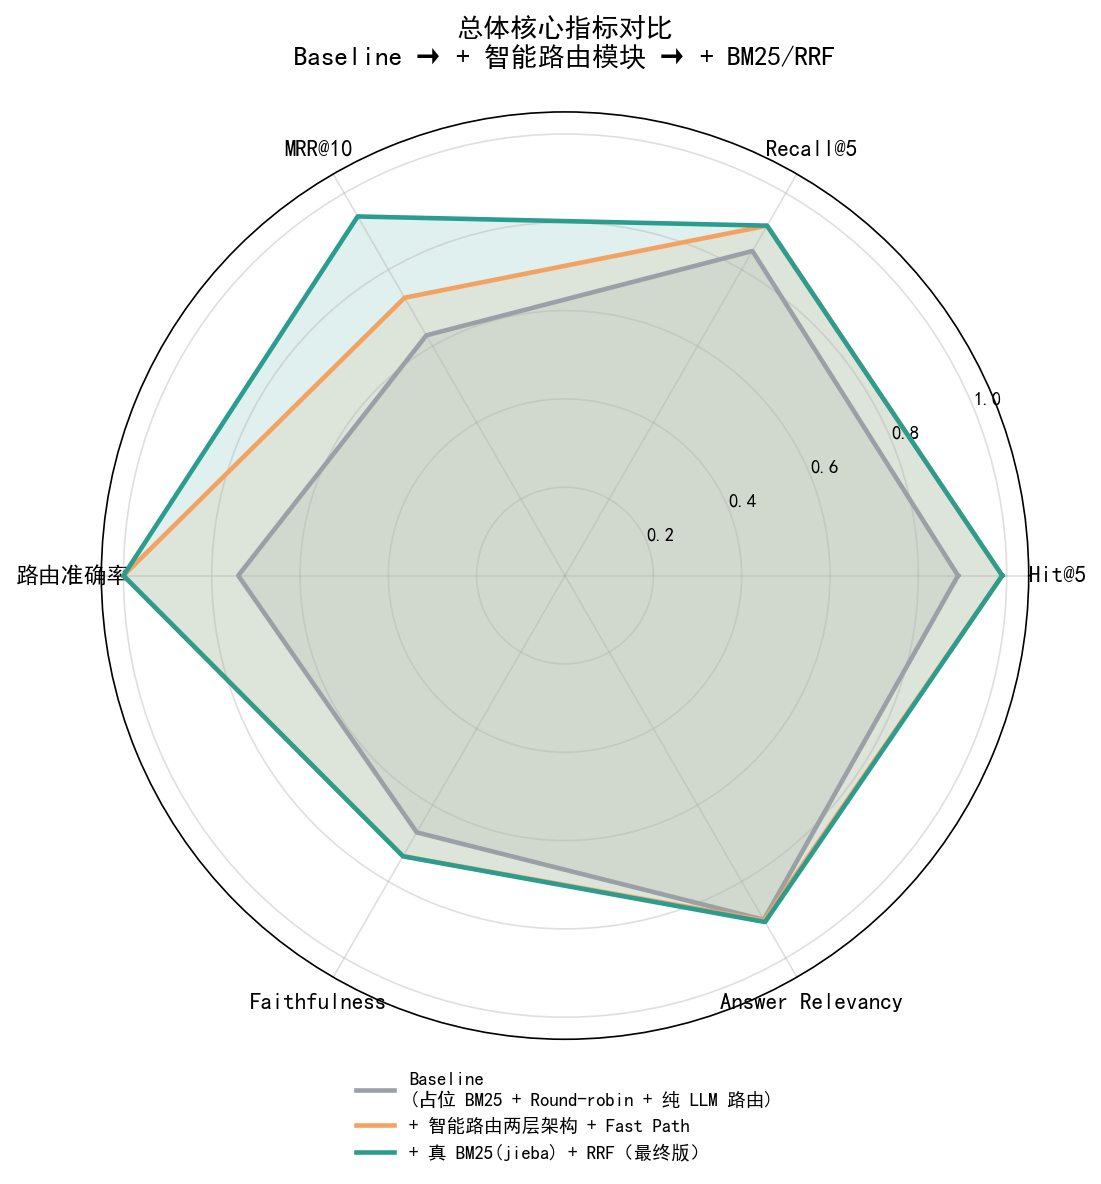
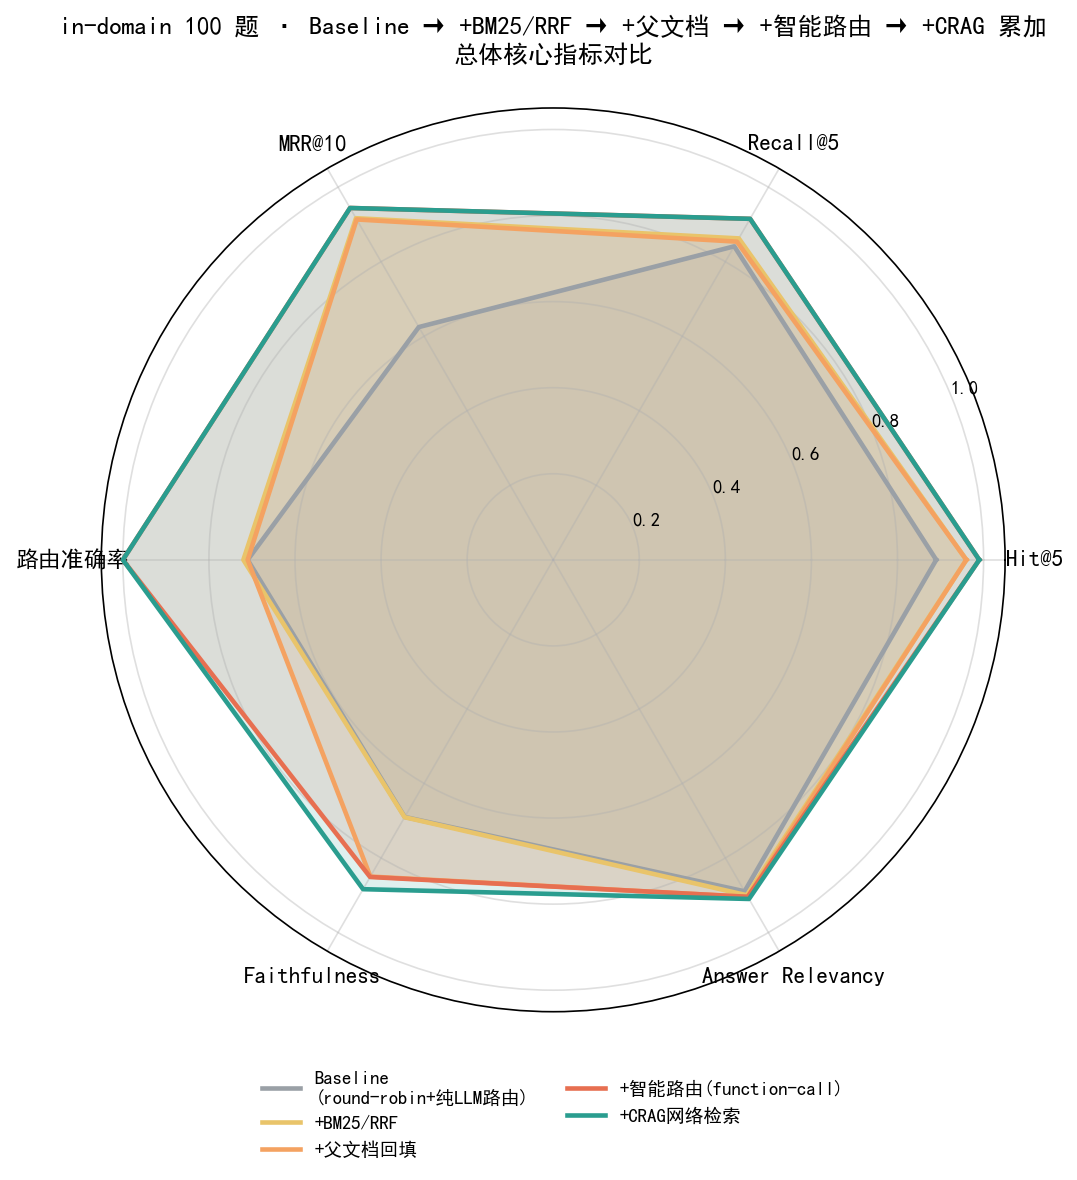
feat(viz): 评测可视化重写为 5 版主链 + 路由专项 + CRAG/OOD 共 4 图

diff --git a/eval/plot_comparison.py b/eval/plot_comparison.py
@@ -1,11 +1,12 @@
 """
-三版评测结果对比可视化
-读取 eval_output/{baseline_v2,route_v2,retrieval_v1}_summary.json，
-画三张 PNG 到 docs/figures/，README 引用：
+5 版评测结果对比可视化
+读取 eval_output/final_*_summary.json 以及 eval_output/ood_correctness.json，
+生成 4 张 PNG 到 docs/figures/：
 
-  01_overall_radar.png            — 总体雷达图（6 核心指标）
-  02_mrr_by_question_type.png     — 按问题类型 MRR@10 柱状图
-  03_latency.png                  — 端到端延迟 P50/P95 对比
+  01_overall_radar.png        — 主链雷达（in-domain 100 题，6 核心指标，5 版）
+  02_latency.png              — 主链延迟 P50/P95（5 版）
+  03_routing_ablation.png     — 路由专项（准确率 + P50 延迟，3 版对比）
+  04_crag_ood.png             — CRAG OOD 价值（LLM 判分正确性，5 版）
 
 用法（从项目根目录）：
     python -m eval.plot_comparison
@@ -28,42 +29,50 @@ EVAL_DIR = ROOT / "eval_output"
 FIG_DIR = ROOT / "docs" / "figures"
 FIG_DIR.mkdir(parents=True, exist_ok=True)
 
-# 三个版本（按时间顺序），颜色：灰 → 橙 → 绿（从浅到深暗示进阶）
+# 5 版主链（按进阶顺序，颜色由浅灰→深绿）
 VERSIONS = [
-    ("baseline_v2",   "Baseline\n(占位 BM25 + Round-robin + 纯 LLM 路由)", "#9aa0a6"),
-    ("route_v2",      "+ 智能路由两层架构 + Fast Path",                  "#f4a261"),
-    ("retrieval_v2",  "+ 真 BM25(jieba) + RRF（最终版）",                 "#2a9d8f"),
+    ("final_baseline",  "Baseline\n(round-robin+纯LLM路由)", "#9aa0a6"),
+    ("final_retrieval", "+BM25/RRF",                          "#e9c46a"),
+    ("final_parentdoc", "+父文档回填",                        "#f4a261"),
+    ("final_route",     "+智能路由(function-call)",           "#e76f51"),
+    ("final_crag",      "+CRAG网络检索",                      "#2a9d8f"),
 ]
 
-# 7 类问题，前 5 类走 hybrid_traditional（D4 影响范围），后 2 类走 graph_rag/combined
-QUESTION_TYPES = [
-    ("simple_fact",     "事实查询"),
-    ("attribute_query", "属性查询"),
-    ("step_by_step",    "步骤型"),
-    ("causal",          "因果推理"),
-    ("entity_relation", "实体关系"),
-    ("multi_hop",       "多跳查询"),
-    ("comparison",      "两菜对比"),
+# 路由专项（受控变量：固定 BM25/RRF+父文档、CRAG off，只换路由器）
+ROUTERS = [
+    ("final_parentdoc",  "纯LLM(原始)",       "#9aa0a6"),
+    ("final_route_rule", "D3规则(规则短路)",  "#f4a261"),
+    ("final_route",      "function-call",     "#2a9d8f"),
 ]
-N_HYBRID = 5  # 前 5 类
 
 
 def load_summary(run_id: str) -> dict:
     p = EVAL_DIR / f"{run_id}_summary.json"
     if not p.exists():
-        raise FileNotFoundError(f"未找到 {p}，请先跑评测：python -m eval.eval_runner --run_id {run_id}")
+        raise FileNotFoundError(
+            f"未找到 {p}，请先跑评测：python -m eval.eval_runner --run_id {run_id}"
+        )
     with open(p, encoding="utf-8") as f:
         return json.load(f)
 
 
+def load_ood_correctness() -> dict:
+    p = EVAL_DIR / "ood_correctness.json"
+    if not p.exists():
+        raise FileNotFoundError(f"未找到 {p}")
+    with open(p, encoding="utf-8") as f:
+        return json.load(f)
+
+
+# ---------- 图1：主链雷达（in-domain）----------
 def plot_radar(summaries: list[dict]) -> Path:
     metrics = [
-        ("Hit@5",            lambda s: s["aggregated"]["retrieval"]["hit@5"]),
-        ("Recall@5",         lambda s: s["aggregated"]["retrieval"]["recall@5"]),
-        ("MRR@10",           lambda s: s["aggregated"]["retrieval"]["mrr@10"]),
-        ("路由准确率",        lambda s: s["aggregated"]["routing"]["accuracy"]),
-        ("Faithfulness",     lambda s: s["aggregated"]["generation"]["faithfulness"]),
-        ("Answer Relevancy", lambda s: s["aggregated"]["generation"]["answer_relevancy"]),
+        ("Hit@5",            lambda s: s["aggregated_in_domain"]["retrieval"]["hit@5"]),
+        ("Recall@5",         lambda s: s["aggregated_in_domain"]["retrieval"]["recall@5"]),
+        ("MRR@10",           lambda s: s["aggregated_in_domain"]["retrieval"]["mrr@10"]),
+        ("路由准确率",        lambda s: s["aggregated_in_domain"]["routing"]["accuracy"]),
+        ("Faithfulness",     lambda s: s["aggregated_in_domain"]["generation"]["faithfulness"]),
+        ("Answer Relevancy", lambda s: s["aggregated_in_domain"]["generation"]["answer_relevancy"]),
     ]
     labels = [m[0] for m in metrics]
     n = len(labels)
@@ -84,12 +93,12 @@ def plot_radar(summaries: list[dict]) -> Path:
     ax.set_yticklabels(["0.2", "0.4", "0.6", "0.8", "1.0"], fontsize=9)
     ax.grid(True, alpha=0.4)
     ax.set_title(
-        "总体核心指标对比\nBaseline → + 智能路由模块 → + BM25/RRF",
-        fontsize=13, pad=22
+        "in-domain 100 题 · Baseline → +BM25/RRF → +父文档 → +智能路由 → +CRAG 累加\n总体核心指标对比",
+        fontsize=12, pad=22
     )
     ax.legend(
-        loc="lower center", bbox_to_anchor=(0.5, -0.15),
-        fontsize=9, ncol=1, frameon=False
+        loc="lower center", bbox_to_anchor=(0.5, -0.18),
+        fontsize=9, ncol=2, frameon=False
     )
     plt.tight_layout()
     out = FIG_DIR / "01_overall_radar.png"
@@ -98,99 +107,194 @@ def plot_radar(summaries: list[dict]) -> Path:
     return out
 
 
-def plot_mrr_by_type(summaries: list[dict]) -> Path:
-    types = [t[0] for t in QUESTION_TYPES]
-    type_labels = [t[1] for t in QUESTION_TYPES]
-    n_types = len(types)
-    width = 0.26
-    x = np.arange(n_types)
-
-    fig, ax = plt.subplots(figsize=(13.5, 6.5))
-    for i, (s, (_, vlabel, color)) in enumerate(zip(summaries, VERSIONS)):
-        values = [s["by_question_type"][t]["mrr@10"] for t in types]
-        offset = (i - 1) * width  # 居中分布
-        bars = ax.bar(x + offset, values, width, label=vlabel, color=color, edgecolor="white", linewidth=0.6)
-        for bar, v in zip(bars, values):
-            ax.text(
-                bar.get_x() + bar.get_width() / 2, bar.get_height() + 0.012,
-                f"{v:.2f}", ha="center", fontsize=8
-            )
-
-    ax.set_xticks(x)
-    ax.set_xticklabels(type_labels, fontsize=11)
-    ax.set_ylabel("MRR@10", fontsize=11)
-    ax.set_ylim(0, 1.20)
-    ax.set_title(
-        "按问题类型 MRR@10 对比 — BM25+RRF 仅作用于 hybrid_traditional 路径",
-        fontsize=13, pad=10
-    )
-    # 图例放左上，避开右上区间标注
-    ax.legend(loc="upper left", fontsize=9, framealpha=0.95)
-    ax.grid(axis="y", alpha=0.3)
-
-    # 分割线 + 区间标注（放在 1.13 高度，避开图例）
-    sep_x = N_HYBRID - 0.5
-    ax.axvline(x=sep_x, color="gray", linestyle="--", alpha=0.5, linewidth=1)
-    ax.text(
-        (N_HYBRID - 1) / 2, 1.13,
-        "走 hybrid_traditional 路径（BM25/RRF 改进作用区）",
-        ha="center", fontsize=9.5, color="#2a9d8f", fontweight="bold"
-    )
-    ax.text(
-        N_HYBRID + (n_types - N_HYBRID - 1) / 2, 1.13,
-        "走 graph_rag / combined（BM25/RRF 不作用）",
-        ha="center", fontsize=9.5, color="#666666"
-    )
-
-    plt.tight_layout()
-    out = FIG_DIR / "02_mrr_by_question_type.png"
-    plt.savefig(out, dpi=150, bbox_inches="tight")
-    plt.close()
-    return out
-
-
+# ---------- 图2：主链延迟（in-domain）----------
 def plot_latency(summaries: list[dict]) -> Path:
     metric_keys = ["latency_p50_ms", "latency_p95_ms"]
     metric_labels = ["P50（中位）", "P95"]
-    width = 0.26
+    n_versions = len(VERSIONS)
+    width = 0.14
     x = np.arange(len(metric_keys))
 
-    fig, ax = plt.subplots(figsize=(9.5, 6))
+    fig, ax = plt.subplots(figsize=(10, 6))
     for i, (s, (_, vlabel, color)) in enumerate(zip(summaries, VERSIONS)):
-        values = [s["aggregated"]["system"][k] for k in metric_keys]
-        offset = (i - 1) * width
-        bars = ax.bar(x + offset, values, width, label=vlabel, color=color, edgecolor="white", linewidth=0.6)
+        values = [s["aggregated_in_domain"]["system"][k] for k in metric_keys]
+        # 居中分布：offset 以 n_versions 为中心
+        offset = (i - (n_versions - 1) / 2) * width
+        bars = ax.bar(
+            x + offset, values, width, label=vlabel,
+            color=color, edgecolor="white", linewidth=0.6
+        )
+        max_val = max(
+            s["aggregated_in_domain"]["system"]["latency_p95_ms"] for s in summaries
+        )
         for bar, v in zip(bars, values):
             ax.text(
-                bar.get_x() + bar.get_width() / 2, bar.get_height() + max(values) * 0.012,
-                f"{v / 1000:.1f}s", ha="center", fontsize=9.5
+                bar.get_x() + bar.get_width() / 2,
+                bar.get_height() + max_val * 0.012,
+                f"{v / 1000:.1f}s",
+                ha="center", fontsize=8.5
             )
 
     ax.set_xticks(x)
     ax.set_xticklabels(metric_labels, fontsize=12)
     ax.set_ylabel("延迟 (ms)", fontsize=11)
     ax.set_title(
-        "端到端延迟对比 — 智能路由 fast path 是延迟下降主要来源",
-        fontsize=13, pad=10
+        "端到端延迟对比（in-domain）— 智能路由 fast path 是延迟下降主因",
+        fontsize=12, pad=10
     )
-    ax.legend(loc="upper right", fontsize=9)
+    ax.legend(loc="upper right", fontsize=9, framealpha=0.9)
     ax.grid(axis="y", alpha=0.3)
-    ax.set_ylim(0, max(s["aggregated"]["system"]["latency_p95_ms"] for s in summaries) * 1.15)
+    max_p95 = max(s["aggregated_in_domain"]["system"]["latency_p95_ms"] for s in summaries)
+    ax.set_ylim(0, max_p95 * 1.20)
 
     plt.tight_layout()
-    out = FIG_DIR / "03_latency.png"
+    out = FIG_DIR / "02_latency.png"
+    plt.savefig(out, dpi=150, bbox_inches="tight")
+    plt.close()
+    return out
+
+
+# ---------- 图3：路由专项（受控变量）----------
+def plot_routing_ablation(router_summaries: list[dict]) -> Path:
+    fig, ax1 = plt.subplots(figsize=(8, 6))
+
+    x = np.arange(len(ROUTERS))
+    width = 0.45
+
+    accuracies = [
+        s["aggregated"]["routing"]["accuracy"] for s in router_summaries
+    ]
+    p50s_s = [
+        s["aggregated"]["system"]["latency_p50_ms"] / 1000 for s in router_summaries
+    ]
+    labels = [r[1] for r in ROUTERS]
+    colors = [r[2] for r in ROUTERS]
+
+    bars = ax1.bar(x, accuracies, width, color=colors, edgecolor="white", linewidth=0.8)
+
+    # 柱顶标准确率数值
+    for bar, acc in zip(bars, accuracies):
+        ax1.text(
+            bar.get_x() + bar.get_width() / 2,
+            bar.get_height() + 0.015,
+            f"{acc:.3f}",
+            ha="center", va="bottom", fontsize=11, fontweight="bold"
+        )
+
+    # 柱下方附 P50 延迟
+    for i, p50 in enumerate(p50s_s):
+        ax1.text(
+            x[i],
+            -0.06,
+            f"P50={p50:.1f}s",
+            ha="center", va="top", fontsize=9.5, color="#444444",
+            transform=ax1.get_xaxis_transform()
+        )
+
+    ax1.set_xticks(x)
+    ax1.set_xticklabels(labels, fontsize=12)
+    ax1.set_ylabel("路由准确率", fontsize=11)
+    ax1.set_ylim(0, 1.18)
+    ax1.set_title(
+        "路由专项（受控变量）：准确率 0.758 → 1.0，延迟下降\n"
+        "固定 BM25/RRF + 父文档，仅换路由器",
+        fontsize=12, pad=10
+    )
+    ax1.grid(axis="y", alpha=0.3)
+
+    plt.tight_layout()
+    out = FIG_DIR / "03_routing_ablation.png"
+    plt.savefig(out, dpi=150, bbox_inches="tight")
+    plt.close()
+    return out
+
+
+# ---------- 图4：CRAG OOD 价值（头条）----------
+def plot_crag_ood(ood_data: dict) -> Path:
+    llm_judge = ood_data["llm_judge"]
+    # 按主链 5 版顺序
+    run_ids = [v[0] for v in VERSIONS]
+    labels = [v[1] for v in VERSIONS]
+    # CRAG 柱用强调绿色，其余灰色
+    highlight_color = "#2a9d8f"
+    default_color = "#b0b8c1"
+    colors = [
+        highlight_color if rid == "final_crag" else default_color
+        for rid in run_ids
+    ]
+    values = [llm_judge[rid] for rid in run_ids]
+
+    fig, ax = plt.subplots(figsize=(10, 6))
+    x = np.arange(len(run_ids))
+    bars = ax.bar(x, values, 0.55, color=colors, edgecolor="white", linewidth=0.8)
+
+    for bar, v in zip(bars, values):
+        ax.text(
+            bar.get_x() + bar.get_width() / 2,
+            bar.get_height() + 0.012,
+            f"{v:.3f}",
+            ha="center", va="bottom", fontsize=11, fontweight="bold"
+        )
+
+    ax.set_xticks(x)
+    ax.set_xticklabels(labels, fontsize=10)
+    ax.set_ylabel("OOD 答案正确性（LLM 判分）", fontsize=11)
+    ax.set_ylim(0, 1.10)
+    ax.set_title(
+        "库外(OOD)问题答案正确性(LLM判分)\n"
+        "不开 CRAG 几乎全拒答(0.03–0.19) → CRAG 0.83",
+        fontsize=12, pad=10
+    )
+    ax.grid(axis="y", alpha=0.3)
+
+    # 标注 CRAG 关键说明
+    crag_idx = run_ids.index("final_crag")
+    ax.annotate(
+        "CRAG 触发网络检索\n(20/20 OOD 题全覆盖)",
+        xy=(crag_idx, values[crag_idx]),
+        xytext=(crag_idx - 1.2, values[crag_idx] + 0.08),
+        fontsize=9,
+        color="#2a9d8f",
+        arrowprops=dict(arrowstyle="->", color="#2a9d8f", lw=1.5),
+    )
+
+    plt.tight_layout()
+    out = FIG_DIR / "04_crag_ood.png"
     plt.savefig(out, dpi=150, bbox_inches="tight")
     plt.close()
     return out
 
 
 def main():
+    # 加载主链 5 版
     summaries = [load_summary(v[0]) for v in VERSIONS]
-    print(f"已读取三版数据：{[v[0] for v in VERSIONS]}")
-    for fn in (plot_radar, plot_mrr_by_type, plot_latency):
-        out = fn(summaries)
-        print(f"  saved → {out.relative_to(ROOT)}")
-    print(f"\n所有图保存在 {FIG_DIR.relative_to(ROOT)}/")
+    print(f"已读取 5 版主链数据：{[v[0] for v in VERSIONS]}")
+
+    # 加载路由专项 3 版
+    router_summaries = [load_summary(r[0]) for r in ROUTERS]
+    print(f"已读取路由专项数据：{[r[0] for r in ROUTERS]}")
+
+    # 加载 OOD 数据
+    ood_data = load_ood_correctness()
+    print("已读取 OOD 正确性数据")
+
+    # 删除旧孤儿图
+    old_fig = FIG_DIR / "02_mrr_by_question_type.png"
+    if old_fig.exists():
+        old_fig.unlink()
+        print(f"  已删除旧图 → {old_fig.relative_to(ROOT)}")
+
+    # 生成 4 图
+    for fn, args in [
+        (plot_radar,            (summaries,)),
+        (plot_latency,          (summaries,)),
+        (plot_routing_ablation, (router_summaries,)),
+        (plot_crag_ood,         (ood_data,)),
+    ]:
+        out = fn(*args)
+        print(f"  saved → {out}")
+
+    print(f"\n所有图保存在 {FIG_DIR}/")
 
 
 if __name__ == "__main__":
